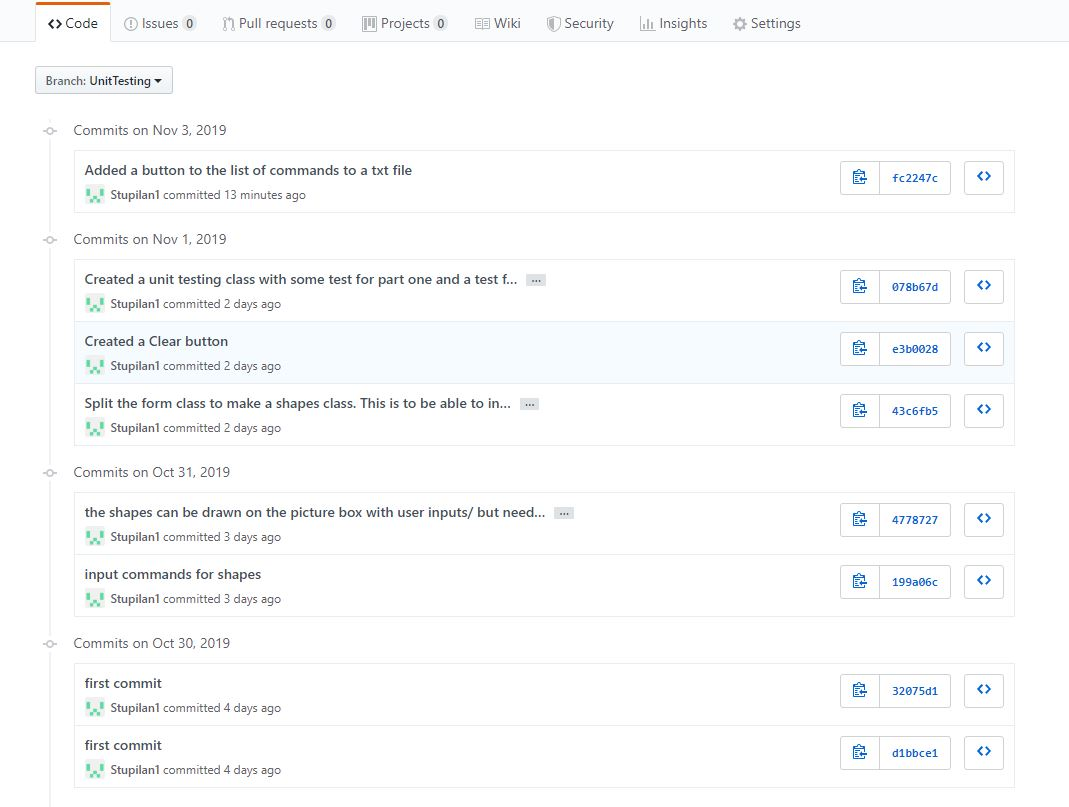
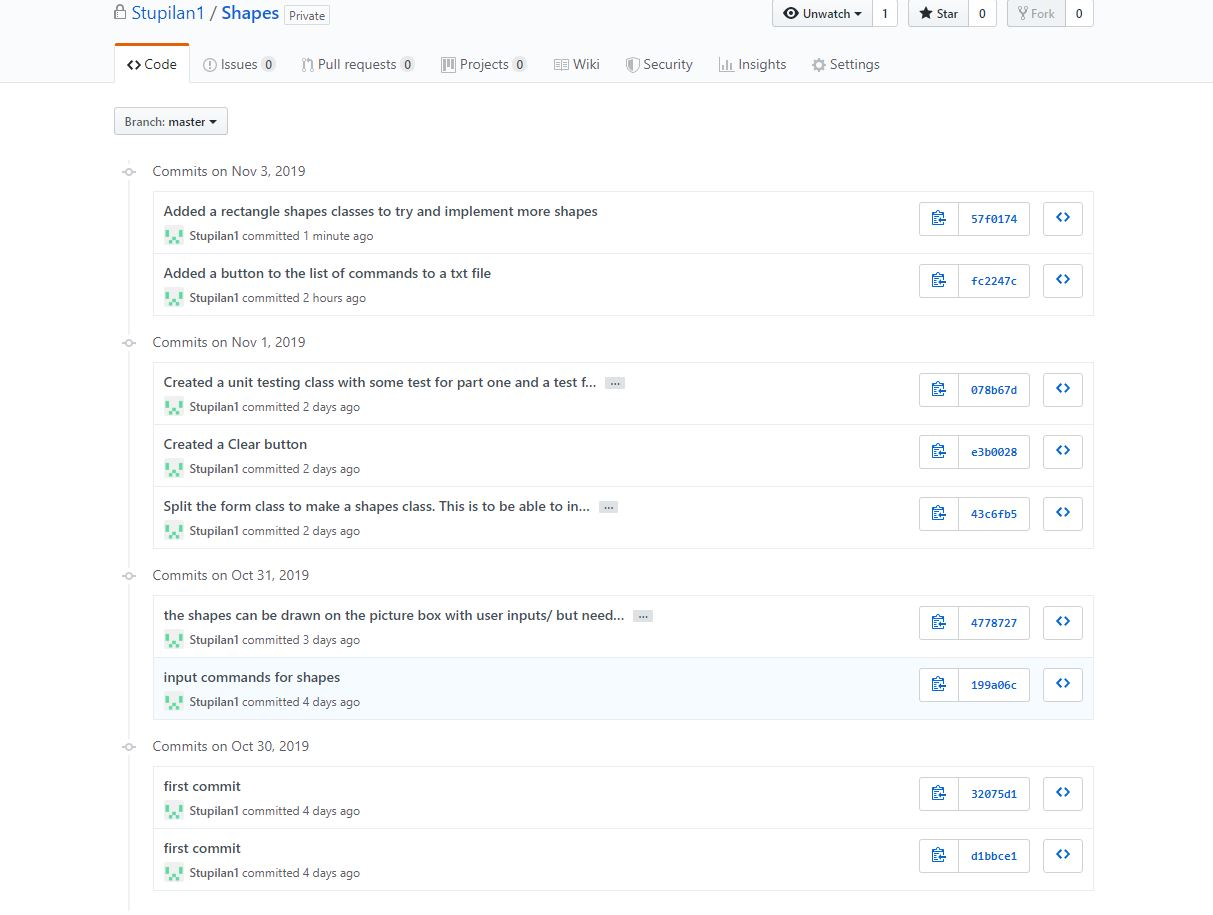
Ready for assignment 2

diff --git a/GraphicalProgramingLanguage/Form1.cs b/GraphicalProgramingLanguage/Form1.cs
@@ -15,10 +15,24 @@ namespace GraphicalProgramingLanguage
     public partial class Form1 : Form
     {
 
-        Rectangle shape;
+        Pen myPen = new Pen(Color.Black);
+        ArrayList shapes = new ArrayList();
+
+        public int MoveX = 0;
+        public int MoveY = 0;
         int index = 0;
         string[] Cmmds = new string[30];
+        int x = 0;
+        int y = 0;
         
+
+        public PictureBox MyPictureBox
+        {
+            get
+            {
+                return pictureBox1;
+            }
+        }
 
         public static string passingtext;
         public Form1()
@@ -29,53 +43,153 @@ namespace GraphicalProgramingLanguage
        private void btn1_Click_1(object sender, EventArgs e)
             {
            
-            if (index < Cmmds.Length)
-            {
-                Cmmds[index] = txtB.Text;
-                Lview1.Items.Add(Cmmds[index++]);
-            }
 
-              shape = null;
-              if (!Rectangle.userinputdraw(txtB.Text, out shape))
-              {
-                return;
-              }
-             pictureBox1.Invalidate();
+            string cmmds = txtB.Text.Trim();
+            string[] cmds = cmmds.Split(' ');
+            int Vcmds = cmds.GetLength(0);
+
+            switch (true)
+            {
+                case bool v when cmds[0].Equals("Rectangle", StringComparison.OrdinalIgnoreCase):
+                    if (Vcmds < 3)
+                    {
+                        MessageBox.Show("Syntax Error");
+                    }
+
+                    else if (Int32.TryParse(cmds[1], out int width) && 
+                             Int32.TryParse(cmds[2], out int height))
+                         {
+                        shapes.Add(new Rectangle(x, y, width, height));
+                        pictureBox1.Invalidate();
+                        if (index < Cmmds.Length)
+                        {
+                            Cmmds[index] = txtB.Text;
+                            Lview1.Items.Add(Cmmds[index++]); // saves the commands to the list box 
+                        }
+                        
+                    }
+                    break;
+
+                case bool v when cmds[0].Equals("circle", StringComparison.OrdinalIgnoreCase):
+                    if (Vcmds < 2)
+                    {
+                        MessageBox.Show("Syntax Error");
+                    }
+                    else if (Int32.TryParse(cmds[1], out int radius))
+                    {
+                        shapes.Add(new Circle(x, y, radius));
+                        pictureBox1.Invalidate();
+                        if (index < Cmmds.Length)
+                        {
+                            Cmmds[index] = txtB.Text;
+                            Lview1.Items.Add(Cmmds[index++]); // saves the commands to the list box 
+                        }
+                    }
+                   
+                    break;
+
+                case bool v when cmds[0].Equals("drawLine", StringComparison.OrdinalIgnoreCase):
+                    if (Vcmds < 3)
+                    {
+                        MessageBox.Show("Syntax Error");
+                    }
+                    else if (Int32.TryParse(cmds[1], out int x2) && 
+                             Int32.TryParse(cmds[2], out int y2))
+                    {
+                        shapes.Add(new Line(x, y, x2, y2));
+                        x = x2;
+                        y = y2;
+                        if (index < Cmmds.Length)
+                        {
+                            Cmmds[index] = txtB.Text;
+                            Lview1.Items.Add(Cmmds[index++]); // saves the commands to the list box 
+                        }
+
+                        pictureBox1.Invalidate();
+                    }
+                    break;
+
+                case bool v when cmds[0].Equals("moveTo", StringComparison.OrdinalIgnoreCase):
+
+                    if (Vcmds < 3)
+                    {
+                        MessageBox.Show("Syntax Error");
+                    }
+                    else if (Int32.TryParse(cmds[1], out int MoveX) && 
+                            Int32.TryParse(cmds[2], out int MoveY))
+                        {
+                        x = MoveX;
+                        y = MoveY;
+                        if (index < Cmmds.Length)
+                        {
+                            Cmmds[index] = txtB.Text;
+                            Lview1.Items.Add(Cmmds[index++]); // saves the commands to the list box 
+                        }
+                         }
+                    break;
+
+                case bool v when cmds[0].Equals("Triangle", StringComparison.OrdinalIgnoreCase):
+                    if (Vcmds < 5)
+                    {
+                        MessageBox.Show("Syntax Error");
+                    }
+                    else if (Int32.TryParse(cmds[1], out int x2) && 
+                            Int32.TryParse(cmds[2], out int y2) &&
+                            Int32.TryParse(cmds[3], out int x3) && 
+                            Int32.TryParse(cmds[4], out int y3))
+                    {
+                        shapes.Add(new Triangle(x, y, x2, y2, x3, y3));
+                        pictureBox1.Invalidate();
+                        if (index < Cmmds.Length)
+                        {
+                            Cmmds[index] = txtB.Text;
+                            Lview1.Items.Add(Cmmds[index++]); // saves the commands to the list box 
+                        }
+                    }
+                    else 
+                        {
+                        MessageBox.Show("Please enter a triangle");
+                    }
+                    break;
+
+                case bool v when cmds[0].Equals("reset", StringComparison.InvariantCultureIgnoreCase):
+                    if (Vcmds < 1)
+                    {
+                        MessageBox.Show("Syntax Error");
+                    }
+                    else
+                    {
+                        x = 0;
+                        y = 0;
+                        if (index < Cmmds.Length)
+                        {
+                            Cmmds[index] = txtB.Text;
+                            Lview1.Items.Add(Cmmds[index++]); // saves the commands to the list box 
+                        }
+                    }
+                    break;
+            }
         }
         private void btn2_Click(object sender, EventArgs e)
         {
-            shape = null;
+            shapes.Clear();
             pictureBox1.Invalidate();
+            txtB.Clear();
         }
         private void btn3_Click(object sender, EventArgs e)
         {
-            File.WriteAllLines(@"D:\Commands.txt", Cmmds, Encoding.UTF8);
+            File.WriteAllLines(@"D:\Commands.txt", Cmmds, Encoding.UTF8); //saves the list of commands to a specifed location
         }
 
         private void pictureBox1_Paint(object sender, PaintEventArgs e)
         {
+            Graphics g = e.Graphics;
 
-            e.Graphics.Clear(Color.White);
-            e.Graphics.SmoothingMode = System.Drawing.Drawing2D.SmoothingMode.AntiAlias;
-            if (shape != null)
+            for (int i = 0; i < shapes.Count; i++)
             {
-
-
-                using (Pen MyPen = new Pen(Color.Black, 3))
-                {
-                    switch (shape.CurrentShape)
-                    {
-                        case Rectangle.Shapes.Circle:
-                            e.Graphics.DrawEllipse(MyPen, shape.X, shape.Y, shape.Width * 2, shape.Height * 2);
-                            break;
-                        case Shape.Shapes.Rectangle:
-                            e.Graphics.DrawRectangle(MyPen, shape.X, shape.Y, shape.Width, shape.Height);
-                            break;
-                        case Shape.Shapes.Line:
-                            e.Graphics.DrawLine(MyPen, shape.X, shape.Y, shape.Width, shape.Height);
-                            break;
-                    }
-                }
+                Shape s;
+                s = (Shape)shapes[i];
+                s.Draw(g);
             }
         }
 

diff --git a/GraphicalProgramingLanguage/Triangle.cs b/GraphicalProgramingLanguage/Triangle.cs
@@ -1,0 +1,46 @@
+using System;
+using System.Collections.Generic;
+using System.Linq;
+using System.Text;
+using System.Threading.Tasks;
+using System.Drawing;
+
+namespace GraphicalProgramingLanguage
+{    
+        class Triangle : Shape
+        {
+           //Point[] pnt = new Point[3];
+            int x2, x3, y2, y3;
+            public Triangle(int x, int y, int x2, int y2, int x3, int y3) : base(x, y)
+            {
+                this.x2 = x2;
+                this.x3 = x3;
+                this.y2 = y2;
+                this.y3 = y3;
+
+               /* pnt[0].X = x;
+                pnt[0].Y = y;
+
+                pnt[1].X = x2;
+                pnt[1].Y = y2;
+
+                pnt[2].X = x3;
+                pnt[2].Y = y3;*/
+            }
+
+            public override void Draw(Graphics g)
+            {
+                Pen p = new Pen(Color.Black, 2);
+                g.DrawLine(p, x, y, x2, y2);
+                g.DrawLine(p, x2, y2, x3, y3);
+                g.DrawLine(p, x3, y3, x, y);
+        }
+
+            public override string ToString()
+            {
+                return base.ToString() + "  " + this.x2 + "  " + this.y2 + "  " + this.x3 + "  " + this.y3;
+            }
+        }
+}
+
+

diff --git a/GraphicalProgramingLanguage/circle.cs b/GraphicalProgramingLanguage/circle.cs
@@ -3,26 +3,29 @@ using System.Collections.Generic;
 using System.Linq;
 using System.Text;
 using System.Threading.Tasks;
-using System.Windows.Forms;
 using System.Drawing;
 
 namespace GraphicalProgramingLanguage
 {
-    class Rectangle : Shape
+    class Circle : Shape
     {
-        int width, height;
-        public Rectangle(int x, int y, int width, int height) : base(x, y)
+        int radius;
+        public Circle(int x, int y, int radius) : base(x, y)
         {
-
-            this.width = width; //the only thingthat is different from shape
-            this.height = height;
+            this.radius = radius;
         }
-
 
         public override void Draw(Graphics g)
         {
             Pen p = new Pen(Color.Black, 2);
-            g.DrawRectangle(p, x, y, width, height);
+            g.DrawEllipse(p, x, y, radius * 2, radius * 2);
         }
+
+        public override string ToString()
+        {
+            return base.ToString() + "  " + this.radius;
+        }
+
+
     }
 }

diff --git a/GraphicalProgramingLanguage/Shape.cs b/GraphicalProgramingLanguage/Shape.cs
@@ -4,33 +4,25 @@ using System.Linq;
 using System.Text;
 using System.Threading.Tasks;
 using System.Windows.Forms;
+using System.Drawing;
 
 namespace GraphicalProgramingLanguage
 {
-    class Shape
+    abstract class Shape
     {
-        public enum Shapes
+        protected int x, y;
+        public Shape(int x, int y)
         {
-            Circle,
-            Rectangle,
-            Line
-        }
+            this.x = x;
+            this.y = y;
+                    }
 
+        public abstract void Draw(Graphics g);
 
-        public Shape()
-        { }
-
-        public Shape(Shapes shape, int x, int y)
+        public override string ToString()
         {
-            CurrentShape = shape;
-            X = x;
-            Y = y;
-
+            return base.ToString() + "    " + this.x + "," + this.y + " : ";
         }
-
-        public Shapes CurrentShape { get; set; } = Shapes.Circle;
-        public int X { get; set; }
-        public int Y { get; set; }
 
 
     }

diff --git a/GraphicalProgramingLanguage/Line.cs b/GraphicalProgramingLanguage/Line.cs
@@ -1,0 +1,31 @@
+using System;
+using System.Collections.Generic;
+using System.Linq;
+using System.Text;
+using System.Threading.Tasks;
+using System.Drawing;
+
+namespace GraphicalProgramingLanguage
+{
+    class Line :Shape
+    {
+        int x2, y2;
+        public Line(int x, int y, int x2, int y2) : base(x, y)
+        {
+            this.x2 = x2;
+            this.y2 = y2;
+        }
+
+        public override void Draw(Graphics g)
+        {
+            Pen p = new Pen(Color.Black, 2);
+            g.DrawLine(p, x, y, x2, y2);
+
+        }
+
+        public override string ToString()
+        {
+            return base.ToString() + "    " + this.x2 + "," + this.y2 + " : ";
+        }
+    }
+}

diff --git a/GraphicalProgramingLanguage/Program.cs b/GraphicalProgramingLanguage/Program.cs
@@ -11,7 +11,7 @@ namespace GraphicalProgramingLanguage
     class Program
     {
         [STAThread]
-        static void Main(string[] args)
+        static void Main()
         {
             Application.EnableVisualStyles();
             Application.SetCompatibleTextRenderingDefault(false);

diff --git a/GraphicalProgramingLanguage/Commands.cs b/GraphicalProgramingLanguage/Commands.cs
@@ -1,0 +1,12 @@
+using System;
+using System.Collections.Generic;
+using System.Linq;
+using System.Text;
+using System.Threading.Tasks;
+
+namespace GraphicalProgramingLanguage
+{
+    class Commands
+    {
+    }
+}
